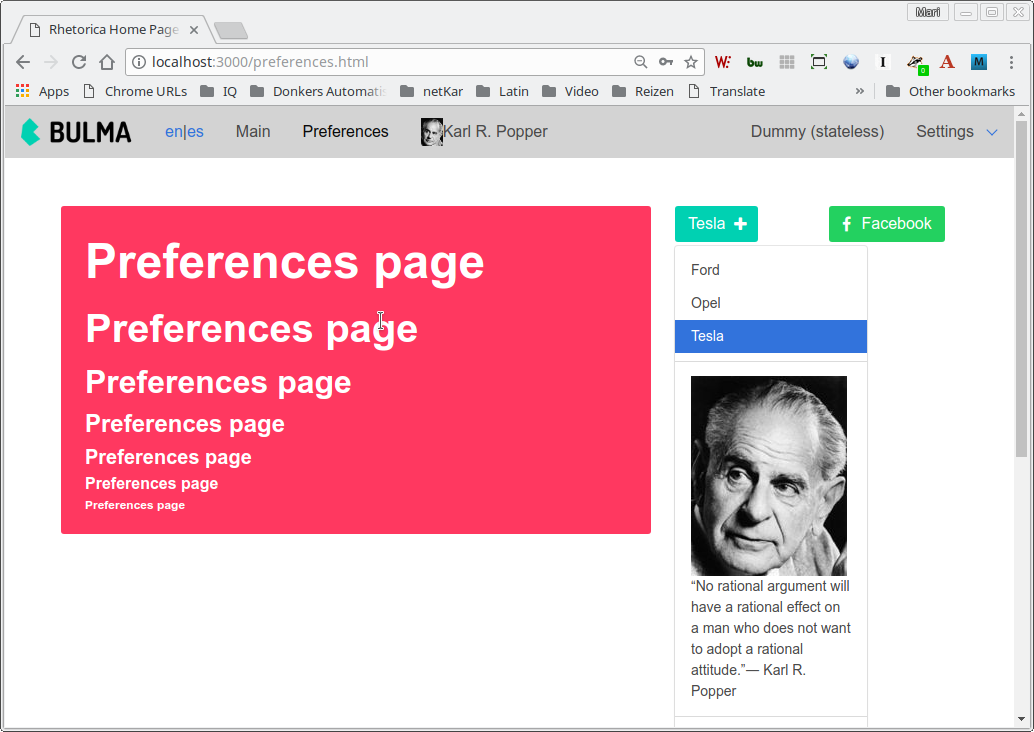
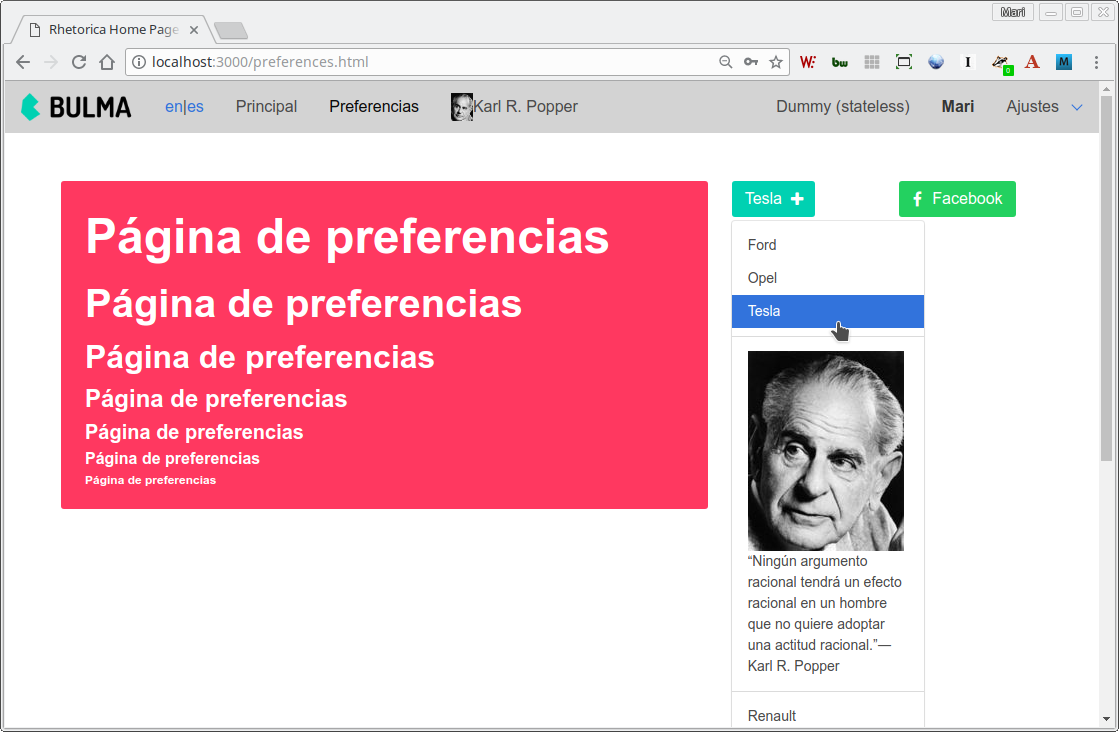
Updated documentation, revised source code (logging, ui login stats)

Changed region(s): [[0.0, 0.0301, 1.0, 0.9918], [0.8665, 0.0, 0.9903, 0.0301], [0.9903, 0.6011, 1.0, 0.6311]]

diff --git a/docs/intro.md b/docs/intro.md
@@ -10,7 +10,7 @@ A fulcro.ui.bootstrap3 inspired Clojure library for Bulma, to be used with Fulcr
 
 * Dropdown
 
-![Dropdown](https://github.com/maridonkers/fulcro-bulma/blob/master/docs/Dropdown.png "Fulcro-Bulma Navbar")
+![Dropdown](https://github.com/maridonkers/fulcro-bulma/blob/master/docs/Dropdown.png "Fulcro-Bulma Dropdown")
 
 ## Examples
 
@@ -26,34 +26,24 @@ Note: Source code incomplete, only showing Fulcro-Bulma related parts.
             [fulcro.client.mutations :as m]
             [fulcro.client.dom :as dom]
             [fulcro-css.css :as css]
-            [fulcro.client.logging :as log]
+            #?(:clj [taoensso.timbre :as timbre
+                     :refer [log  trace  debug  info  warn  error  fatal  report
+                             logf tracef debugf infof warnf errorf fatalf reportf
+                             spy get-env]]
+               :cljs [taoensso.timbre :as timbre
+                      :refer-macros [log  trace  debug  info  warn  error  fatal  report
+                                     logf tracef debugf infof warnf errorf fatalf reportf
+                                     spy get-env]])
             [org.photonsphere.example.ui.html5-routing :as r]
             [org.photonsphere.example.ui.login :as l]
             [org.photonsphere.example.ui.user :as user]
             [org.photonsphere.example.ui.main :as main]
             [org.photonsphere.example.ui.preferences :as prefs]
             [org.photonsphere.example.ui.new-user :as nu]
-            [org.photonsphere.example.api.mutations :as api]
+            [org.photonsphere.rhetorica.api.mutations :as api]
             [fulcro.client.primitives :as prim :refer [defsc]]
             [fulcro.i18n :refer [tr]]
             [org.photonsphere.fulcro.ui.bulma :as b]))
-
-(def render-fcns
-  {:navbar-i18n-render-fcn (fn [this]
-                             (let [i18n-fcn (fn [lc]
-                                              (prim/transact! this
-                                                              `[(m/change-locale {:lang ~lc})]))]
-                               (dom/div #js {:className "field is-grouped"}
-                                        (dom/a #js {:href "#"
-                                                    :onClick (fn [] (i18n-fcn :en))} (tr "en"))
-                                        (dom/span nil "|")
-                                        (dom/a #js {:href "#"
-                                                    :onClick (fn [] (i18n-fcn :es))} (tr "es")))))
-   :navbar-philosophers-render-fcn
-   (fn [_]
-     [(dom/img #js {:key :karlrpopper-image
-                    :src "https://images.gr-assets.com/authors/1480329278p4/14772624.jpg"})
-      (dom/p #js {:key :karlrpopper-caption} "Karl R. Popper")])})
 
 ;; Use keywords formatted as navbar-pagename for the page links.
 (def top-navbar
@@ -69,11 +59,13 @@ Note: Source code incomplete, only showing Fulcro-Bulma related parts.
                                                  (b/navbar-link :navbar-preferences
                                                                 (tr "Preferences")
                                                                 {:displayed? false})
-                                                 (b/navbar-sublink :navbar-sublink
+                                                 (b/navbar-sublink :navbar-sublink1
                                                                    :navbar-philosophers-render-fcn)])
                            (b/navbar-menu-end :top-navbar-menu-end
                                               [(b/navbar-link :navbar-dummy (tr "Dummy (stateless)")
                                                               {:displayed? false :stateful? false})
+                                               (b/navbar-sublink :navbar-sublink2
+                                                                 :navbar-user-stats-render-fcn)
                                                (b/navbar-dropdown :navbar-dropdown-settings
                                                                   (tr "Settings")
                                                                   {:displayed? false}
@@ -85,10 +77,23 @@ Note: Source code incomplete, only showing Fulcro-Bulma related parts.
                                                                    (b/navbar-link :navbar-logout
                                                                                   (tr "Log out"))])]))
             nil))
-            
+
+(defrouter Pages :page-router
+  (ident [this props] [(:id props) :page])
+  :login l/LoginPage
+  :new-user nu/NewUser
+  :preferences prefs/PreferencesPage
+  :main main/MainPage)
+
+(def ui-pages (prim/factory Pages))
+
+(defn ui-login-stats [loading? user]
+  (dom/strong nil
+         (if loading? "... " (user/ui-user user))))
+
 (defsc TopNavbar [this
                   {:keys [navbar] :as props}
-                  {:keys [logged-in? current-route] :as cprops}]
+                  {:keys [loading-data current-user logged-in? current-route] :as cprops}]
   {:initial-state (fn [params]
                     {:navbar top-navbar})
    :ident (fn [] [:top-navbar/by-id :singleton])
@@ -109,11 +114,13 @@ Note: Source code incomplete, only showing Fulcro-Bulma related parts.
                                               :navbar-i18n-es (i18n-fcn :es)
                                               :navbar-main (r/nav-to! this :main)
                                               :navbar-preferences (r/nav-to! this :preferences)
+                                              :navbar-dummy #?(:clj (info "Dummy clicked!")
+                                                               :cljs (js/alert "Dummy clicked!"))
                                               :navbar-dropdown-account (r/nav-to! this :main)
                                               :navbar-dropdown-profile (r/nav-to! this :preferences)
                                               :navbar-logout (logout-fcn true))
-                                            (log/info (str "TopNavbar:: Selected NAVBAR link is: " link
-                                                           ", logged-in? " logged-in?)))
+                                            (info (str "TopNavbar:: Selected NAVBAR link is: " link
+                                                       ", logged-in? " logged-in?)))
                                 :stateful? true
                                 :attrs {:navbar {:style #js {:background-color "lightgray"}}
                                         :brand-img {:src "https://bulma.io/images/bulma-logo.png"
@@ -122,8 +129,26 @@ Note: Source code incomplete, only showing Fulcro-Bulma related parts.
                                                     :alt "Bulma"}
                                         ;; :dropdown-container {:className "is-hoverable"}
                                         :dropdown {:className "is-boxed"}}
-                                :render-fcns render-fcns})]
-    (log/info (str "TopNavbar:: logged-in? " logged-in? ", current-route " current-navbar-link))
+                                :render-fcns {:navbar-i18n-render-fcn (fn [this]
+                                                                        (let [i18n-fcn (fn [lc]
+                                                                                         (prim/transact! this
+                                                                                                         `[(m/change-locale {:lang ~lc})]))]
+                                                                          (dom/div #js {:className "field is-grouped"}
+                                                                                   (dom/a #js {:href "#"
+                                                                                               :onClick (fn [] (i18n-fcn :en))} (tr "en"))
+                                                                                   (dom/span nil "|")
+                                                                                   (dom/a #js {:href "#"
+                                                                                               :onClick (fn [] (i18n-fcn :es))} (tr "es")))))
+                                              :navbar-philosophers-render-fcn
+                                              (fn [_]
+                                                [(dom/img #js {:key :karlrpopper-image
+                                                               :src "https://images.gr-assets.com/authors/1480329278p4/14772624.jpg"})
+                                                 (dom/p #js {:key :karlrpopper-caption} "Karl R. Popper")])
+                                              :navbar-user-stats-render-fcn
+                                              (fn [_]
+                                                (when logged-in?
+                                                  (ui-login-stats loading-data current-user)))}})]
+    (info (str "TopNavbar:: logged-in? " logged-in? ", current-route " current-navbar-link))
     ;; Do not execute the transact! on the server (hence the reader conditional)...
     #?(:cljs (prim/transact! this
                              `[(b/display-navbar-link ~{:target :navbar-main
@@ -137,14 +162,13 @@ Note: Source code incomplete, only showing Fulcro-Bulma related parts.
                                (b/set-active-navbar-link ~{:id :top-navbar
                                                            :target current-navbar-link})]))
     ui-navbar))
-    
+
 (def ui-top-navbar (prim/factory TopNavbar))
 
-(defsc Root [this {:keys [ui/ready? ui/react-key logged-in? pages top-navbar]
+(defsc Root [this {:keys [ui/ready? ui/react-key ui/loading-data current-user logged-in? pages top-navbar]
                    :or {react-key "ROOT"}}]
   {:initial-state (fn [p] (merge
-                           {; Is there a user logged in?
-                            :logged-in? false
+                           {:logged-in? false
                                         ; Is the UI ready for initial render?
                                         ; This avoids flicker while we figure out
                                         ; if the user is already logged in
@@ -153,30 +177,32 @@ Note: Source code incomplete, only showing Fulcro-Bulma related parts.
                             :current-user nil
                             ;; :root/modals  (prim/get-initial-state Modals {})
                             :pages (prim/get-initial-state Pages nil)
-                            :top-navbar (prim/get-initial-state TopNavbar nil)
-                            }
+                            :top-navbar (prim/get-initial-state TopNavbar nil)}
                            r/app-routing-tree))
-   :query [:ui/react-key :ui/ready? :logged-in?
+   :query [:ui/react-key :ui/ready?
+           :ui/loading-data
            {:current-user (prim/get-query user/User)}
+           :logged-in?
            #_{:root/modals (prim/get-query Modals)}
                                         ; TODO: Check if this [routing-tree-key] is
                                         ; needed...seemed to affect initial state from SSR.
            fulcro.client.routing/routing-tree-key
-           :ui/loading-data
            {:pages (prim/get-query Pages)}
            {:top-navbar (prim/get-query TopNavbar)}]
    :css-include [TopNavbar]}
   (let [current-route (get-in pages [:fulcro.client.routing/current-route :id])]
-    (log/info (str "ROOT:: logged-in? " logged-in? ", current-route " current-route))
-  (dom/div #js {:key react-key}
-           (log/info (str "ROOT:: pages=" pages))
-           #_(ui-navbar this)
-           (ui-top-navbar (prim/computed top-navbar {:logged-in? logged-in?
-                                                     :current-route current-route}))
-           (when ready?
-             (ui-pages pages)))))
+    (info (str "ROOT:: logged-in? " logged-in? ", current-route " current-route))
+    (dom/div #js {:key react-key}
+             (info (str "ROOT:: pages=" pages))
+             #_(ui-navbar this)
+             (ui-top-navbar (prim/computed top-navbar {:loading-data loading-data
+                                                       :logged-in? logged-in?
+                                                       :current-user current-user
+                                                       :current-route current-route}))
+             (when ready?
+               (ui-pages pages)))))
 
-#?(:cljs (css/upsert-css "example-css-id" Root))
+#?(:cljs (css/upsert-css "rhetorica-css-id" Root))
 ```
 
 ### Dropdown
@@ -186,18 +212,19 @@ Note: Source code incomplete, only showing Fulcro-Bulma related parts.
 ```clojure
 (ns org.photonsphere.example.ui.preferences
   (:require [fulcro.client.primitives :as prim :refer [defsc]]
-            [fulcro.client.logging :as log]
+            #?(:clj [taoensso.timbre :as timbre
+                     :refer [log  trace  debug  info  warn  error  fatal  report
+                             logf tracef debugf infof warnf errorf fatalf reportf
+                             spy get-env]]
+               :cljs [taoensso.timbre :as timbre
+                      :refer-macros [log  trace  debug  info  warn  error  fatal  report
+                                     logf tracef debugf infof warnf errorf fatalf reportf
+                                     spy get-env]])
             [fulcro.client :as u]
             [fulcro.i18n :refer [tr]]
             [fulcro.client.dom :as dom]
             [fulcro.client.mutations :as m]
             [org.photonsphere.fulcro.ui.bulma :as b]))
-
-(def render-fcns {:philosophers-render-fcn 
-                  (fn [_]
-                    [(dom/img #js {:key :karlrpopper-image
-                                   :src "https://images.gr-assets.com/authors/1480329278p4/14772624.jpg"})
-                     (dom/p #js {:key :karlrpopper-caption} (str "“" (tr "No rational argument will have a rational effect on a man who does not want to adopt a rational attitude.") "”― Karl R. Popper"))])})
 
 (def car-make-dropdown
   (b/dropdown :car-make
@@ -224,7 +251,7 @@ Note: Source code incomplete, only showing Fulcro-Bulma related parts.
                (b/dropdown-item :toyota (tr "Toyota"))
                (b/dropdown-divider :korean)
                (b/dropdown-item :hyundai (tr "Hyundai"))]))
-               
+
 (defn multi-font-size-block
   "Renders a block with the same text in multiple font sizes."
   [txt]
@@ -250,7 +277,7 @@ Note: Source code incomplete, only showing Fulcro-Bulma related parts.
                (dom/p nil
                       (dom/b #js {:className "is-size-7"}
                              txt))))
-               
+
 (defsc PreferencesPage [this {:keys [id car-make-dropdown]}]
   {:initial-state (fn [_]
                     {:id :preferences
@@ -259,11 +286,11 @@ Note: Source code incomplete, only showing Fulcro-Bulma related parts.
            {:car-make-dropdown (prim/get-query b/Dropdown)}]
    :ident (fn [] [:preferences :page])}
   (let [facebook-button-fcn (fn []
-                              (log/info "Facebook button clicked.")
-                              #?(:cljs (js/alert (tr "Facebook button clicked!"))))
+                              #?(:clj (info "Facebook button clicked.")
+                                 :cljs (js/alert (tr "Facebook button clicked!"))))
         dropdown (b/ui-dropdown car-make-dropdown
                                 {:onSelect (fn [item]
-                                             (log/info (str "Current item is: " item)))
+                                             (info (str "Current item is: " item)))
                                  :stateful? true
                                  :attrs {;:dropdown {:className "is-hoverable"}
                                          :button {:className "is-primary"}
@@ -271,7 +298,14 @@ Note: Source code incomplete, only showing Fulcro-Bulma related parts.
                                          :button-icon {:className "fa fa-plus"}
                                         ; :items {:className "notification is-danger"}
                                          }
-                                 :render-fcns render-fcns})
+                                 :render-fcns {:philosophers-render-fcn
+                                               (fn [_]
+                                                 [(dom/img #js {:key :karlrpopper-image
+                                                                :src "https://images.gr-assets.com/authors/1480329278p4/14772624.jpg"})
+                                                  (dom/p #js {:key :karlrpopper-caption}
+                                                         (str "“"
+                                                              (tr "No rational argument will have a rational effect on a man who does not want to adopt a rational attitude.")
+                                                              "”― Karl R. Popper"))])}})
         button (dom/button #js {:className "button is-success"
                                 :onClick facebook-button-fcn}
                            (dom/span #js {:className "icon"}
